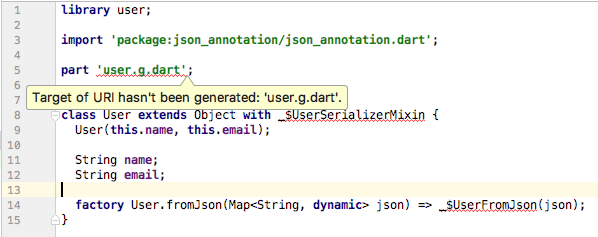
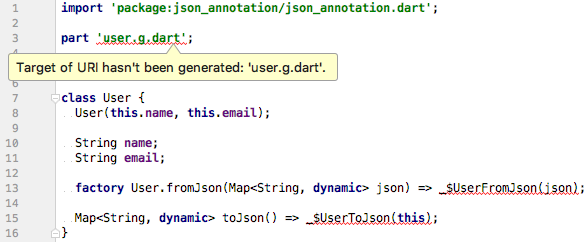
更新文档

diff --git a/json.md b/json.md
@@ -171,12 +171,12 @@ String json = JSON.encode(user);
 ```yaml
 dependencies:
   # Your other regular dependencies here
-  json_annotation: ^0.2.2
+  json_annotation: ^2.0.0
 
 dev_dependencies:
   # Your other dev_dependencies here
-  build_runner: ^0.7.6
-  json_serializable: ^0.3.2
+  build_runner: ^1.0.0
+  json_serializable: ^2.0.0
 ```
 
 在您的项目根文件夹中运行 `flutter packages get`  (或者在编辑器中点击 "Packages
@@ -193,38 +193,23 @@ Get") 以在项目中使用这些新的依赖项.
 {% prettify dart %} 
 import 'package:json_annotation/json_annotation.dart';
 
-/// This allows our `User` class to access private members in 
-/// the generated file. The value for this is *.g.dart, where 
-/// the star denotes the source file name.
-part '[[highlight]]user[[/highlight]].g.dart';
+// user.g.dart 将在我们运行生成命令后自动生成
+part 'user.g.dart';
 
-/// An annotation for the code generator to know that this class needs the 
-/// JSON serialization logic to be generated.
-[[highlight]]@JsonSerializable()[[/highlight]]
+///这个标注是告诉生成器，这个类是需要生成Model类的
+@JsonSerializable()
 
-/// Every json_serializable class must have the serializer mixin. 
-/// It makes the generated toJson() method to be usable for the class. 
-/// The mixin's name follows the source class, in this case, User.
-class User extends Object with _$[[highlight]]User[[/highlight]]SerializerMixin {
+class User{
   User(this.name, this.email);
 
   String name;
   String email;
-
-  /// A necessary factory constructor for creating a new User instance
-  /// from a map. We pass the map to the generated _$UserFromJson constructor. 
-  /// The constructor is named after the source class, in this case User.
-  factory User.fromJson(Map<String, dynamic> json) => _$[[highlight]]User[[/highlight]]FromJson(json);
+  //不同的类使用不同的mixin即可
+  factory User.fromJson(Map<String, dynamic> json) => _$UserFromJson(json);
+  Map<String, dynamic> toJson() => _$UserToJson(this);
 }
 {% endprettify %}
 
-With this setup, the source code generator will generate code for serializing
-the `name` and `email` fields from JSON and back.
-
-If needed, it is also easy to customize the naming strategy. For example, if the
-API we are working with returns objects with _snake\_case_, and we want to use
-_lowerCamelCase_ in our models, we can use the `@JsonKey` annotation with a name
-parameter:
 
 有了这个设置，源码生成器将生成用于序列化`name`和`email`字段的JSON代码。
 

diff --git a/animations/staggered-animations/index.md b/animations/staggered-animations/index.md
@@ -8,18 +8,20 @@ permalink: /animations/staggered-animations/
 
 <b> <a id="whats-the-point" class="anchor" href="#whats-the-point" aria-hidden="true"><span class="octicon octicon-link"></span></a>你将学到什么:</b>
 
-* A staggered animation consists of sequential or overlapping
-  animations.
-* To create a staggered animation, use multiple Animation objects.
-* One AnimationController controls all of the Animations.
-* Each Animation object specifies the animation during an Interval.
 * For each property being animated, create a Tween.
+
+* 交错动画由一个动画序列或重叠的动画组成。
+* 要创建交错动画，需要使用多个动画对象。
+* 一个AnimationController控制所有动画。
+* 每个动画对象在间隔(Interval)期间指定动画。
+* 对于要执行动画的每个属性都要创建一个Tween。
+
 </div>
 
 <aside class="alert alert-info" markdown="1">
 **Terminology:**
-If the concept of tweens or tweening is new to you, see the
-[Animations in Flutter tutorial.](/tutorials/animation/)
+如果您还不清楚“补间”的概念，请参考
+[Flutter动画教程](/tutorials/animation/)
 </aside>
 
 Staggered animations are a straightforward concept: visual changes
@@ -27,6 +29,8 @@ happen as a series of operations, rather than all at once.
 The animation might be purely sequential, with one change occuring after
 the next, or it might partially or completely overlap. It might also
 have gaps, where no changes occur.
+
+所谓交错动画，直接来说就是：视觉变化发生在一系列操作中，而不是一次性发生。 动画可能是纯粹顺序的，在下一个动画之后会发生一次更改，或者可能部分或完全重叠。 它也可能有间隙，没有发生变化。
 
 This guide shows how to build a staggered animation in Flutter.
 
